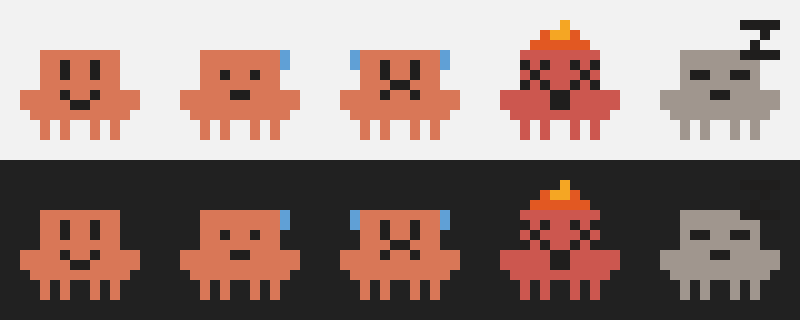
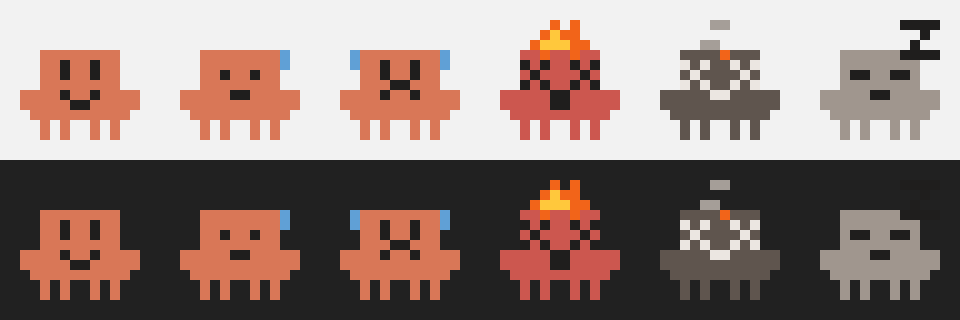
Improve the fire and add a burned-out state at 100%
The flame is now tapered tongues with a yellow core at the base and
ember pixels licking the head edge, instead of a flat bar that read
as a hat. At 100% the critter goes past on-fire to burned out:
charred body, pale X-eyes, drifting smoke puffs, one last glowing
ember. Demo mode cycles through the new state too.

diff --git a/Sources/main.swift b/Sources/main.swift
@@ -28,7 +28,8 @@ enum MascotState {
     case happy      // low usage: smiling
     case working    // mid usage: concentrating, one sweat drop
     case stressed   // high usage: worried, two sweat drops
-    case critical   // near limit: X-eyes, red-shifted
+    case critical   // near limit: X-eyes, on fire, red-shifted
+    case burnout    // 100%: charred, smoking, one last ember
     case sleeping   // error / not logged in: gray, eyes closed
 }
 
@@ -41,8 +42,10 @@ func drawMascot(_ state: MascotState, in rect: NSRect) {
     let terracotta  = col(217, 119, 87)     // Claude brand #D97757
     let ink         = col(31, 30, 29)       // #1F1E1D
     let sweatBlue   = col(96, 160, 214)
-    let flameOrange = col(226, 88, 34)
-    let flameYellow = col(245, 166, 35)
+    let flameOrange = col(242, 100, 25)
+    let flameYellow = col(255, 200, 60)
+    let pale        = col(235, 230, 225)
+    let smoke       = col(165, 158, 152)
 
     func blend(_ a: NSColor, _ b: NSColor, _ t: CGFloat) -> NSColor {
         NSColor(calibratedRed: a.redComponent   + (b.redComponent   - a.redComponent)   * t,
@@ -54,6 +57,7 @@ func drawMascot(_ state: MascotState, in rect: NSRect) {
     let body: NSColor
     switch state {
     case .critical: body = blend(terracotta, col(200, 76, 76), 0.75)
+    case .burnout:  body = col(95, 85, 78)              // charred
     case .sleeping: body = col(160, 150, 142)
     default:        body = terracotta
     }
@@ -99,10 +103,28 @@ func drawMascot(_ state: MascotState, in rect: NSRect) {
             px(ex, 5); px(ex + 2, 5); px(ex + 1, 6); px(ex, 7); px(ex + 2, 7)
         }
         px(5, 3, 2, 2)                                      // open mouth
-        flameOrange.setFill()                               // on fire
-        px(3, 9, 6, 1); px(4, 10); px(7, 10)
+        // on fire: tapered tongues with a yellow core, embers licking the
+        // head edge so it reads as flame, not a hat
+        flameOrange.setFill()
+        px(4, 8); px(7, 8)                                  // embers on the head
+        px(3, 9); px(7, 9); px(8, 9)
+        px(4, 10); px(6, 10); px(7, 10)
+        px(5, 11); px(7, 11)                                // two tips
         flameYellow.setFill()
-        px(5, 10, 2, 1); px(6, 11)
+        px(4, 9, 3, 1); px(5, 10)                           // hot core at the base
+        ink.setFill()
+
+    case .burnout:
+        for ex: CGFloat in [2, 7] {                          // pale X eyes
+            pale.setFill()
+            px(ex, 5); px(ex + 2, 5); px(ex + 1, 6); px(ex, 7); px(ex + 2, 7)
+        }
+        pale.setFill()
+        px(5, 4, 2, 1)                                      // flat, spent mouth
+        flameOrange.setFill()
+        px(6, 8)                                            // one last ember
+        smoke.setFill()
+        px(4, 9, 2, 1); px(5, 11, 2, 1)                     // drifting smoke puffs
         ink.setFill()
 
     case .sleeping:
@@ -140,6 +162,7 @@ func mascotIcon(_ state: MascotState) -> NSImage {
 }
 
 func mascotState(forPeak peak: Double) -> MascotState {
+    if peak >= 100 { return .burnout }
     if peak >= 90 { return .critical }
     if peak >= 75 { return .stressed }
     if peak >= 40 { return .working }
@@ -339,7 +362,7 @@ final class AppDelegate: NSObject, NSApplicationDelegate {
     var demoStep = 0
 
     func demoTick() {
-        let peaks: [Double] = [12, 55, 82, 96]
+        let peaks: [Double] = [12, 55, 82, 96, 100]
         let peak = peaks[demoStep % peaks.count]
         demoStep += 1
         update(Usage(

diff --git a/README.md b/README.md
@@ -13,7 +13,8 @@ your **peak** utilization (the higher of the 5-hour session limit and the
 | Happy | < 40% | smiling |
 | Working hard | 40–74% | focused, one sweat drop |
 | Stressed | 75–89% | frowning, two sweat drops; % turns orange |
-| Overwhelmed | ≥ 90% | X-eyes, on fire, red-shifted body; % turns red |
+| Overwhelmed | 90–99% | X-eyes, on fire, red-shifted body; % turns red |
+| Burned out | 100% | charred, smoking, one last ember |
 | Asleep | error / not logged in | gray, eyes closed, Z |
 
 The mascot is drawn entirely in code on a 12×12 pixel grid — no image
@@ -76,7 +77,7 @@ open ClaudeUsage.app --args --demo
 ```
 
 Cycles synthetic usage values every 3 seconds (happy → working → stressed →
-on fire) — handy for screenshots and screen recordings. In demo mode no
+on fire → burned out) — handy for screenshots and screen recordings. In demo mode no
 credentials are read and no network calls are made.
 
 ## Quit